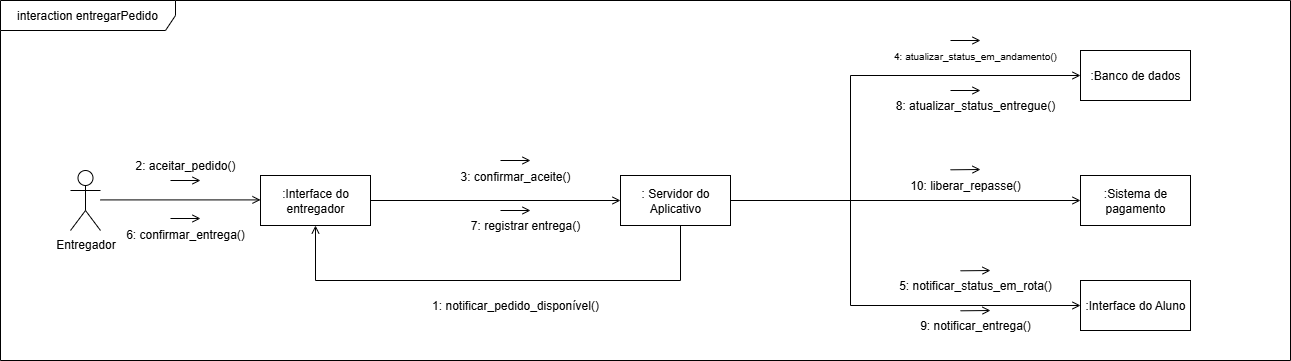
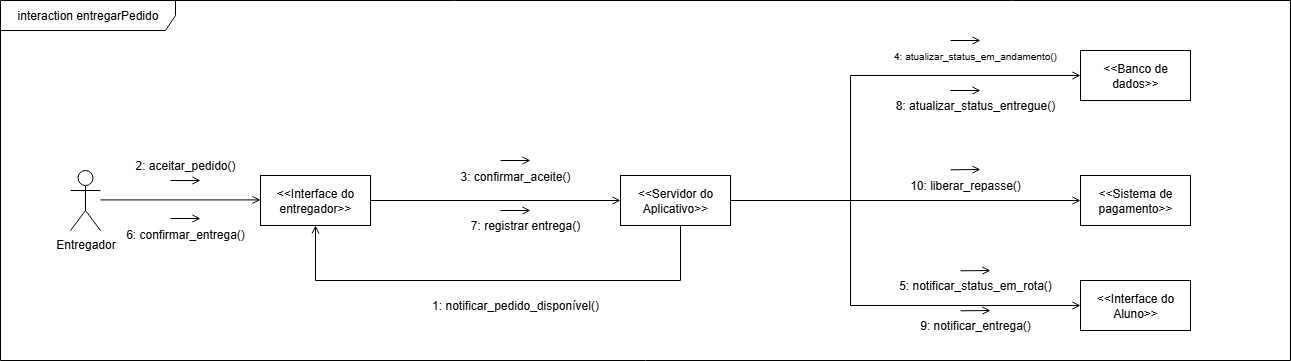
corrige diagramas de colaboracao

diff --git a/docs/Modelagem/ModelagemDinamica/DiagramaDeColaboracao.md b/docs/Modelagem/ModelagemDinamica/DiagramaDeColaboracao.md
@@ -38,19 +38,19 @@ O diagrama de colaboração foi criado pensando em algumas das interações que 
 </div>
 
 A interação Fazer Pedido conta com os seguintes elementos (lifelines):
-- **:Comprador**: O usuário que está fazendo o pedido.
+- **Comprador**: O usuário que está fazendo o pedido.
 
-- **:Interface do Comprador**: A aplicação frontend no dispositivo do comprador.
+- **Interface do Comprador**: A aplicação frontend no dispositivo do comprador.
 
-- **:Servidor do Aplicativo**: O sistema backend que processa toda a lógica.
+- **Servidor do Aplicativo**: O sistema backend que processa toda a lógica.
 
-- **:Banco de Dados**: Armazena todos os dados persistentes (usuários, pedidos, restaurantes, itens).
+- **Banco de Dados**: Armazena todos os dados persistentes (usuários, pedidos, restaurantes, itens).
 
-- **:Sistema de Pagamento**: Serviço externo para processar transações financeiras.
+- **Sistema de Pagamento**: Serviço externo para processar transações financeiras.
 
-- **:Interface do Fornecedor**: A aplicação frontend usada pelo restaurante para gerenciar pedidos.
+- **Interface do Fornecedor**: A aplicação frontend usada pelo restaurante para gerenciar pedidos.
 
-- **:Interface do Entregador**: A aplicação frontend usada pelo motorista de entrega.
+- **Interface do Entregador**: A aplicação frontend usada pelo motorista de entrega.
 
 ### Interação "Entregar_Pedido"
 ![Diagrama de colaboração do projeto PodePedirFCTE](../../assets/Diagrama%20de%20Colaboração-Entregador.png)
@@ -171,3 +171,4 @@ A interação **SolicitarPedido** conta com os seguintes elementos e mensagens:
 | 21/09/2025 |  `1.2`   | Adiciona Interação do Entregador e Introdução | [`@Guilherme Storch`](https://github.com/storch7) | [`@Ana Clara`](https://github.com/anabborges) |   21/09/2025    |
 | 21/09/2025 |  `1.3`   | Adiciona Tabela de Elementos e de Contribuição. | [`@Ana Clara`](https://github.com/anabborges) | [`@Willian`](https://github.com/Wooo589) |   21/09/2025    |
 | 21/09/2025 |  `1.4`   | Adiciona Interação Solicitar Pedido. | [`@Willian`](https://github.com/Wooo589) | [`@Ana Clara`](https://github.com/anabborges) |   21/09/2025    |
+| 22/09/2025 |  `1.5`   | Altera diagrama de Fazer Pedidos e do Entregador. | [`@Ana Clara`](https://github.com/anabborges) | [`@Guilherme Storch`](https://github.com/storch7) |   22/09/2025    |
